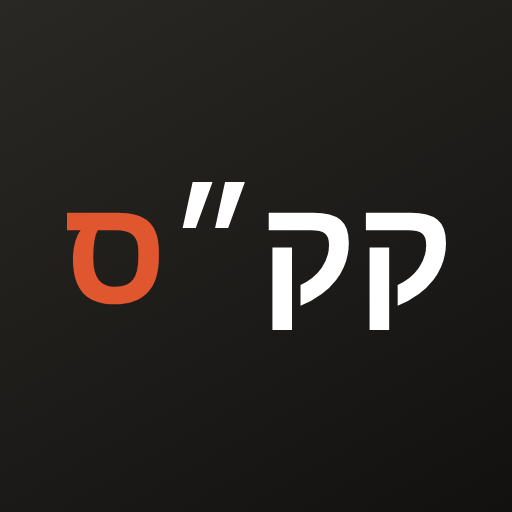
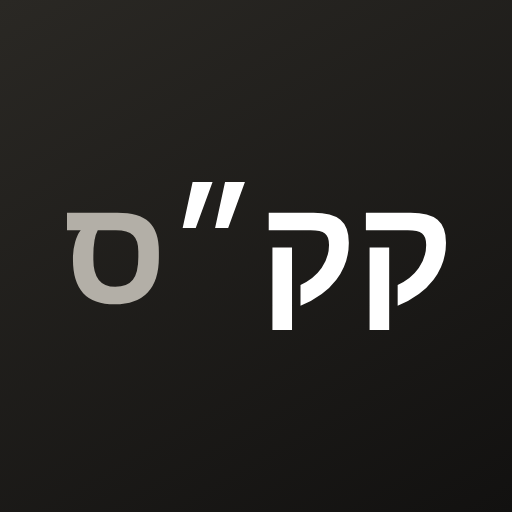
No orange: black, white and warm greys
The coral is gone. What is chosen and pressed is black (a graphite at
night), today is a black circle (a light one at night), links are in the
ink, and the ס of the course's mark is a warm grey - on the icons, the
loading screen and the splash screens too. Colour is left to what it
means: late, done, at risk.

The global --accent the last palette added is gone too: a few rules use a
local --accent with their own fallback, and it had turned them coral.

Claude-Session: https://claude.ai/code/session_01AomzjN2E5bkqJF54mMAdGS

Changed region(s): [[0.125, 0.4062, 0.3125, 0.5938]]

diff --git a/client/src/look.css b/client/src/look.css
@@ -1,8 +1,9 @@
 /*
- * The app's colours, over apple.css: the same layout and controls, a quieter palette - a warm off-white ground,
- * white cards, near-black words, black for what is pressed (a button, the chosen screen), and one coral for what
- * is chosen and for today, used sparingly. Night turns it over: a warm near-black, the words light, coral for
- * what is chosen and pressed. Every colour that words sit on reads at 4.5:1 or more.
+ * The app's colours, over apple.css: the same layout and controls, a quiet palette in black, white and warm
+ * greys - a warm off-white ground, white cards, near-black words, black for what is pressed and what is chosen
+ * (a button, the chosen screen, today). Night turns it over: a warm near-black, the words light, a graphite for
+ * what is pressed, today in light. Colour is left to what it means - late, done, at risk. Every colour that words
+ * sit on reads at 4.5:1 or more.
  */
 
 :root {
@@ -17,19 +18,19 @@
   --line: #e7e5e0;
   --line-2: #d8d5cf;
 
-  /* the one accent: coral - as a mark (today, a highlight), and deep enough for words */
-  --accent: #e0562f;
-  --accent-fill: #c94a28;
+  /* today, wherever a calendar marks it */
+  --today-fill: #161511;
+  --today-ink: #ffffff;
 
   --rail: rgba(246, 245, 242, 0.92);
   --rail-2: rgba(120, 113, 100, 0.1);
   --rail-ink: #141413;
   --rail-muted: #6b6862;
-  --focus: #e0562f;
-  --tint: #b8462a;
+  --focus: #141413;
+  --tint: #141413;
   --tint-fill: #161511;
   --tint-press: #000000;
-  --tint-bg: rgba(224, 86, 47, 0.1);
+  --tint-bg: rgba(20, 20, 19, 0.07);
   --fill: rgba(120, 113, 100, 0.1);
   --fill-2: rgba(120, 113, 100, 0.18);
   --thumb: #ffffff;
@@ -46,10 +47,10 @@
   --hover: rgba(20, 20, 19, 0.04);
   --hover-2: rgba(20, 20, 19, 0.08);
   --field: rgba(120, 113, 100, 0.1);
-  --field-ring: rgba(224, 86, 47, 0.25);
+  --field-ring: rgba(20, 20, 19, 0.16);
   --board-col: rgba(232, 230, 225, 0.6);
-  --event-bg: #f7e4dc;
-  --event-ink: #8c3920;
+  --event-bg: #ebe9e4;
+  --event-ink: #3b3a36;
   --mono: ui-monospace, 'SF Mono', SFMono-Regular, 'Cascadia Mono', Menlo, Consolas, 'Liberation Mono', monospace;
 }
 
@@ -66,18 +67,18 @@
     --line: #2a2926;
     --line-2: #36342f;
 
-    --accent: #ff7a52;
-    --accent-fill: #c4482a;
+    --today-fill: #f3f2ef;
+    --today-ink: #141413;
 
     --rail: rgba(18, 18, 17, 0.92);
-    --rail-2: rgba(255, 138, 102, 0.12);
+    --rail-2: rgba(255, 255, 255, 0.08);
     --rail-ink: #f3f2ef;
     --rail-muted: #9a968e;
-    --focus: #ff8a66;
-    --tint: #ff8f6b;
-    --tint-fill: #c4482a;
-    --tint-press: #a93c22;
-    --tint-bg: rgba(255, 128, 92, 0.14);
+    --focus: #f3f2ef;
+    --tint: #f3f2ef;
+    --tint-fill: #57544f;
+    --tint-press: #4a4743;
+    --tint-bg: rgba(255, 255, 255, 0.09);
     --fill: rgba(200, 190, 175, 0.12);
     --fill-2: rgba(200, 190, 175, 0.2);
     --thumb: #34322e;
@@ -87,7 +88,7 @@
     --bar-glass: rgba(24, 24, 22, 0.84);
     --bar-mark: #34322e;
     --bar-ink: rgba(243, 242, 239, 0.72);
-    --bar-on: #ff8f6b;
+    --bar-on: #f3f2ef;
     --bar-plus: #f3f2ef;
     --bar-plus-ink: #141413;
     --bar-plus-shadow: rgba(0, 0, 0, 0.45);
@@ -95,14 +96,14 @@
     --blue: #7aa7d9;
     --blue-bg: #1b2836;
 
-    --primary-hover: #d4552f;
+    --primary-hover: #66625c;
     --hover: rgba(255, 255, 255, 0.05);
     --hover-2: rgba(255, 255, 255, 0.09);
     --field: rgba(200, 190, 175, 0.12);
-    --field-ring: rgba(255, 138, 102, 0.38);
+    --field-ring: rgba(255, 255, 255, 0.24);
     --board-col: rgba(26, 26, 24, 0.8);
-    --event-bg: #3a2119;
-    --event-ink: #ffb59c;
+    --event-bg: #2a2926;
+    --event-ink: #e0ddd6;
   }
 }
 
@@ -119,18 +120,18 @@
     --line: #2a2926;
     --line-2: #36342f;
 
-    --accent: #ff7a52;
-    --accent-fill: #c4482a;
+    --today-fill: #f3f2ef;
+    --today-ink: #141413;
 
     --rail: rgba(18, 18, 17, 0.92);
-    --rail-2: rgba(255, 138, 102, 0.12);
+    --rail-2: rgba(255, 255, 255, 0.08);
     --rail-ink: #f3f2ef;
     --rail-muted: #9a968e;
-    --focus: #ff8a66;
-    --tint: #ff8f6b;
-    --tint-fill: #c4482a;
-    --tint-press: #a93c22;
-    --tint-bg: rgba(255, 128, 92, 0.14);
+    --focus: #f3f2ef;
+    --tint: #f3f2ef;
+    --tint-fill: #57544f;
+    --tint-press: #4a4743;
+    --tint-bg: rgba(255, 255, 255, 0.09);
     --fill: rgba(200, 190, 175, 0.12);
     --fill-2: rgba(200, 190, 175, 0.2);
     --thumb: #34322e;
@@ -140,7 +141,7 @@
     --bar-glass: rgba(24, 24, 22, 0.84);
     --bar-mark: #34322e;
     --bar-ink: rgba(243, 242, 239, 0.72);
-    --bar-on: #ff8f6b;
+    --bar-on: #f3f2ef;
     --bar-plus: #f3f2ef;
     --bar-plus-ink: #141413;
     --bar-plus-shadow: rgba(0, 0, 0, 0.45);
@@ -148,14 +149,14 @@
     --blue: #7aa7d9;
     --blue-bg: #1b2836;
 
-    --primary-hover: #d4552f;
+    --primary-hover: #66625c;
     --hover: rgba(255, 255, 255, 0.05);
     --hover-2: rgba(255, 255, 255, 0.09);
     --field: rgba(200, 190, 175, 0.12);
-    --field-ring: rgba(255, 138, 102, 0.38);
+    --field-ring: rgba(255, 255, 255, 0.24);
     --board-col: rgba(26, 26, 24, 0.8);
-    --event-bg: #3a2119;
-    --event-ink: #ffb59c;
+    --event-bg: #2a2926;
+    --event-ink: #e0ddd6;
   }
 }
 
@@ -205,7 +206,7 @@
   fill: #fff;
 }
 .brand-word-s {
-  fill: #e0562f;
+  fill: #b3afa7;
 }
 @media (forced-colors: active) {
   .brand-word-k,
@@ -214,15 +215,15 @@
   }
 }
 
-/* ---------------- today: the coral circle, wherever a calendar shows it ---------------- */
+/* ---------------- today: a black circle (a light one at night), wherever a calendar shows it ---------------- */
 
 .mini-month-day.today > span,
 .gc-dayhead.is-today .gc-dn,
 .gc-daynum.is-today,
 .gc-ym-day.is-today,
 .cal-page .gs-day.is-today .gs-num {
-  background: var(--accent-fill);
-  color: #fff;
+  background: var(--today-fill);
+  color: var(--today-ink);
 }
 
 /* ---------------- data in a monospace: counts, dates, scores ---------------- */
@@ -236,7 +237,7 @@
   letter-spacing: 0;
 }
 
-/* ---------------- what is chosen: its symbol in the coral ---------------- */
+/* ---------------- what is chosen: its symbol in the ink ---------------- */
 
 .section-tab.on svg {
   color: var(--tint);
@@ -251,7 +252,7 @@
   background: var(--thumb);
 }
 
-/* what the keyboard is on: a coral ring */
+/* what the keyboard is on: a ring in the ink */
 :focus-visible {
   outline-color: var(--focus);
 }

diff --git a/client/index.html b/client/index.html
@@ -54,7 +54,7 @@
         fill: #141413;
       }
       #boot .kks-s {
-        fill: #e0562f;
+        fill: #8a867f;
         transform-origin: 684px 1243.5px;
         animation: kks-turn 1.4s cubic-bezier(0.65, 0.05, 0.36, 1) infinite;
       }
@@ -73,7 +73,7 @@
           fill: #f3f2ef;
         }
         html:not([data-theme='light']) #boot .kks-s {
-          fill: #ff7a52;
+          fill: #9a968e;
         }
       }
       html[data-theme='dark'] #boot {
@@ -83,7 +83,7 @@
         fill: #f3f2ef;
       }
       html[data-theme='dark'] #boot .kks-s {
-        fill: #ff7a52;
+        fill: #9a968e;
       }
       /* less motion: the ס breathes instead of turning */
       @media (prefers-reduced-motion: reduce) {
